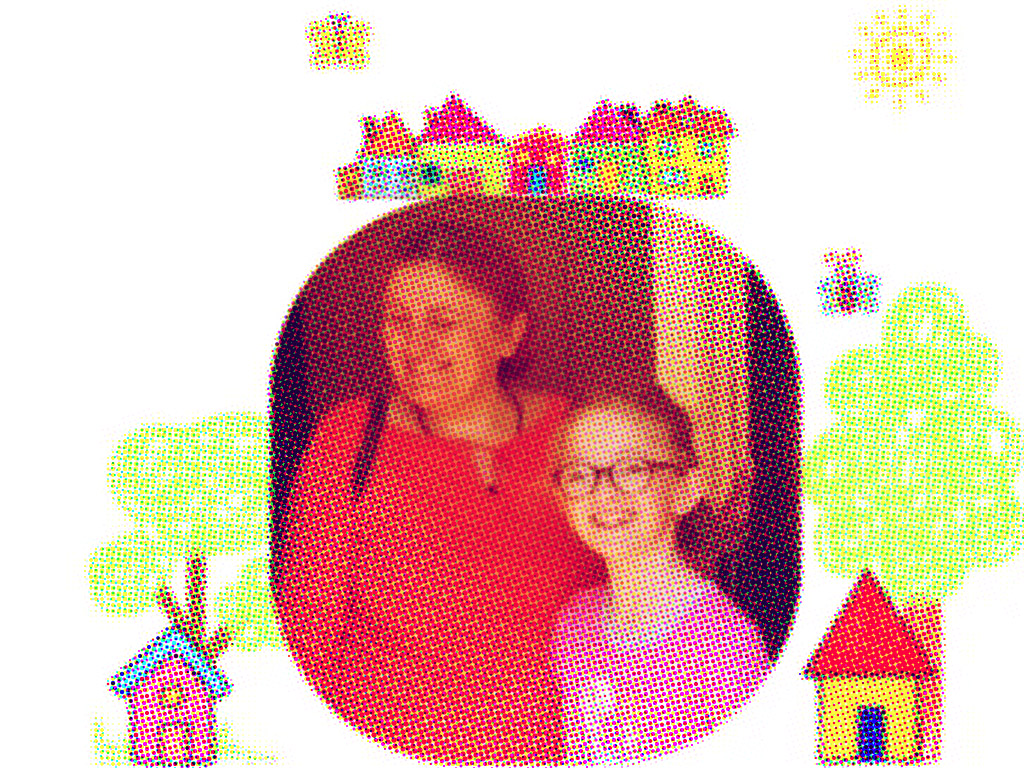
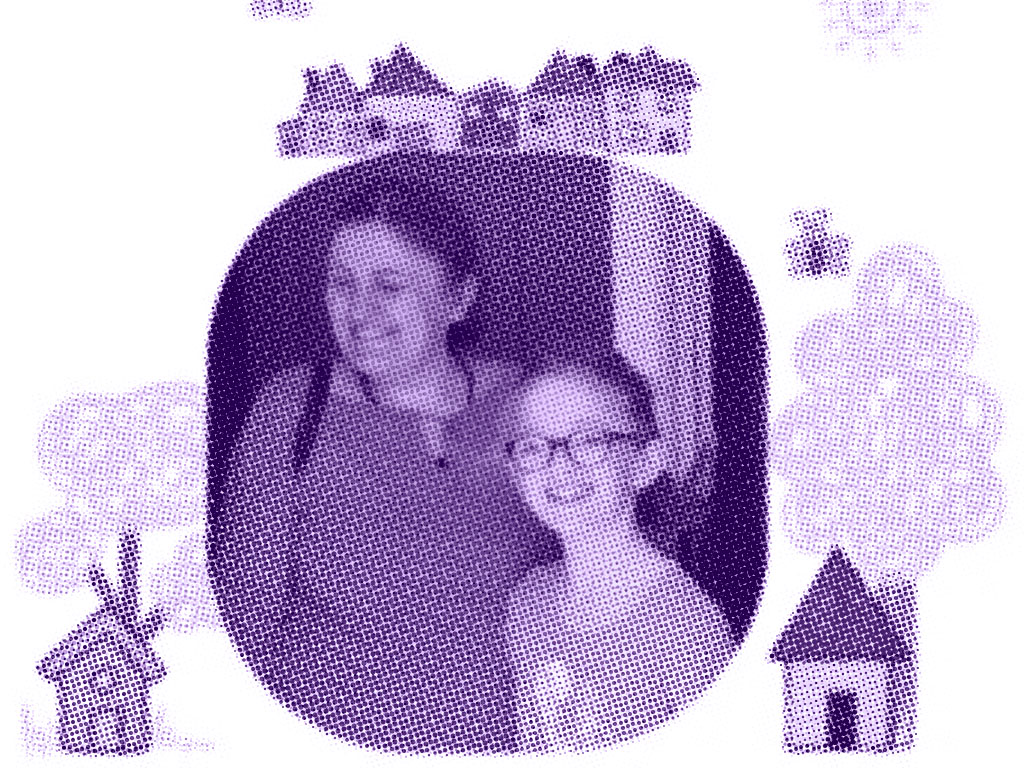
feat(site): ajouter le bandeau Solidarité avec les personnes exilées et réorganiser l'accueil
- nouvelle section SolidariteExiles (bandeau « papier découpé » + fresque),
  insérée après Plaidoyer ; ChiffresCles déplacé après le tunnel hébergeur
- nouveau bandeau TopBanner au-dessus du logo du héros
- corrige l'alignement des chiffres et la largeur des titres dans ParcoursHebergeur
- retouches diverses : crédits du footer, teintes des halos Plaidoyer/ParcoursReferent,
  décalage du fondu de bande, tirage HouseScatter, logo crème
- compresse les visuels des projets, ajoute une note sur les chiffres publics

diff --git a/src/components/site/sections/SolidariteExiles.tsx b/src/components/site/sections/SolidariteExiles.tsx
@@ -1,0 +1,51 @@
+import cutOutBanner from "@/assets/brand/cutOutBanner.svg?raw";
+import fresque from "@/assets/brand/Fresque3.jpg";
+import { solidariteExiles } from "@/components/site/content";
+
+/*
+ * Bandeau « papier découpé » plein bord : la forme lavande (`cutOutBanner.svg`)
+ * est un tracé unique auto-intersectant qui, sous la règle nonzero, rend un
+ * bandeau aux bords ondulés avec une fenêtre rectangulaire ajourée au centre
+ * (mesurée : left 21.5 %, top 20.5 %, largeur 57.75 %, hauteur 52 % de la
+ * viewBox 2000×1000). La photo de la fresque est calée sur cette fenêtre et
+ * placée SOUS le SVG (le SVG doit rester au-dessus en z pour découper l'image).
+ *
+ * Même technique que `PaperButton` : SVG importé en `?raw`, étiré au calque
+ * (`preserveAspectRatio="none"`, injecté ici car absent du fichier source) et
+ * inliné via `dangerouslySetInnerHTML` — un `<img src>` respecterait le
+ * `preserveAspectRatio` interne et ne remplirait pas le bandeau.
+ */
+const STRETCHED_BANNER = cutOutBanner.includes("preserveAspectRatio")
+  ? cutOutBanner
+  : cutOutBanner.replace("<svg", '<svg preserveAspectRatio="none"');
+
+export function SolidariteExiles() {
+  return (
+    <div className="relative aspect-[20/9] w-full overflow-hidden">
+      <img
+        src={fresque}
+        alt="Fresque peinte par les personnes accueillies par ABS"
+        className="absolute object-cover"
+        style={{ left: "21.5%", top: "20.5%", width: "58%", height: "54%" }}
+      />
+
+      <div
+        aria-hidden
+        className="pointer-events-none absolute inset-0 [&>svg]:block [&>svg]:h-full [&>svg]:w-full"
+        dangerouslySetInnerHTML={{ __html: STRETCHED_BANNER }}
+      />
+
+      <p className="absolute inset-x-0 top-8 flex h-[20%] items-center justify-center px-5 text-center font-display text-[6vw] leading-none text-creme sm:text-[5.5vw]">
+        {solidariteExiles.titre}
+      </p>
+
+      <p className="absolute inset-x-0 bottom-40 px-4 px-5 text-left ml-160 font-display text-[4vw] leading-none text-creme sm:text-[1.8vw]">
+        {solidariteExiles.sousTitreLigne1}
+      </p>
+
+      <p className="absolute inset-x-0 bottom-12 px-5 text-left ml-200 font-display text-[5.5vw] leading-none text-creme sm:text-[5.5vw]">
+        {solidariteExiles.sousTitreLigne2}
+      </p>
+    </div>
+  );
+}

diff --git a/src/components/site/sections/SiteFooter.tsx b/src/components/site/sections/SiteFooter.tsx
@@ -168,20 +168,20 @@ export function SiteFooter() {
           </div>
         </div>
 
-        <div className="mx-auto mt-10 flex w-full max-w-5xl flex-col gap-4 border-t border-creme/10 pt-6 sm:flex-row sm:items-center sm:justify-between">
-          <Logo variant="creme" className="h-10 shrink-0" />
-          <p className="text-xs text-creme/50 sm:text-left">
+        <div className="mx-auto mt-6 flex w-full max-w-5xl flex-col gap-4 border-t border-creme/10 pt-6 sm:flex-row sm:items-center sm:justify-between">
+          <Logo variant="creme" className="h-[70px] shrink-0" />
+          <p className="text-xs mt-4 text-creme/50 sm:text-left">
             ABS, Accueil Bienveillant et Solidaire · Haute-Vienne ·{" "}
             <Link to="/vie-privee" className="underline underline-offset-2 hover:text-creme/80">
-              Vie privée
+              Vie privée   
             </Link>
-            <br />
-            Police des titres Euripides:{" "}
+             {" "} — Police des titres Euripides:{" "}
             <a href="https://tanvi.network/" target="_blank" rel="noreferrer" className="underline underline-offset-2 hover:text-creme/80">
               Tanvi
             </a>{" "}
-            — Identité visuelle: Lilou Rougemont, 1ère année DN MADe
-            Graphisme, La Souterraine, supervisée par Thibault Memz — Site : Yvan Galtié
+            <br />
+            Identité visuelle: Lilou Rougemont, 1ère année DN MADe
+            Graphisme, La Souterraine. Enseignant: Thibault Memz — Site : Yvan Galtié
           </p>
         </div>
       </div>

diff --git a/src/pages/HomePage.tsx b/src/pages/HomePage.tsx
@@ -1,5 +1,6 @@
 import { Hero } from "@/components/site/sections/Hero";
 import { Plaidoyer } from "@/components/site/sections/Plaidoyer";
+import { SolidariteExiles } from "@/components/site/sections/SolidariteExiles";
 import { ChiffresCles } from "@/components/site/sections/ChiffresCles";
 import { ParcoursHebergeur } from "@/components/site/sections/ParcoursHebergeur";
 import { ParcoursReferent } from "@/components/site/sections/ParcoursReferent";
@@ -30,7 +31,7 @@ export default function HomePage() {
       }}
     >
       {/* Fil conducteur orange — couche décorative derrière le contenu. */}
-      <Fil className="absolute inset-0 z-0 h-full w-full" />
+      <Fil className="absolute inset-0 z-1 h-full w-full" />
 
       {/* Maisons « fait main » en filigrane, semées procéduralement (variantes
           maison*.svg), derrière le contenu. Placement stable via `seed`. */}
@@ -39,7 +40,7 @@ export default function HomePage() {
       <div className="relative z-10">
         <Hero hebergerTarget="heberger" referentTarget="referent" />
         <Plaidoyer />
-        <ChiffresCles />
+        <SolidariteExiles />
 
         {/* Tunnels de réassurance : « Comment ça marche ? » + passage à l'action */}
         <ParcoursHebergeur id="heberger" showTypes />
@@ -53,6 +54,8 @@ export default function HomePage() {
             </Disclosure>
           </div>
         </Section>
+
+        <ChiffresCles />
 
         <ParcoursReferent id="referent" />
         <Section className="pt-0 sm:pt-0">

diff --git a/src/components/site/sections/Hero.tsx b/src/components/site/sections/Hero.tsx
@@ -1,5 +1,6 @@
 import { HandHeart, HouseHeart } from "lucide-react";
 import { Logo } from "@/components/site/brand/Logo";
+import { TopBanner } from "@/components/site/brand/TopBanner";
 import { PaperButton } from "@/components/site/ui/PaperButton";
 import { hero } from "@/components/site/content";
 
@@ -22,7 +23,9 @@ export function Hero({
   const referentCta = { onClick: scrollTo(referentTarget) };
 
   return (
-    <section className="relative overflow-hidden bg-gradient-to-b from-peach/70 to-transparent px-5 pb-20 pt-10">
+    <section className="relative overflow-hidden bg-gradient-to-b from-peach/40 to-transparent px-5 pb-20 pt-10">
+      <TopBanner className="absolute inset-x-0 top-0 sm:h-40" />
+
       <div className="relative mx-auto w-full max-w-5xl text-center">
         <Logo variant="wordmark" className="mx-auto mb-0 h-24 sm:h-52" />
 
@@ -34,7 +37,7 @@ export function Hero({
               (même traitement que le bloc « Pourquoi nous agissons »). */}
           <div
             aria-hidden
-            className="pointer-events-none absolute -inset-x-8 -inset-y-4 rounded-[3rem] bg-background/50 blur-2xl"
+            className="pointer-events-none absolute -inset-x-8 -inset-y-4 rounded-[3rem] bg-background/40 blur-2xl"
           />
           <p className="relative text-lg text-foreground/100 sm:text-xl">
             {hero.sousTitre}

diff --git a/src/components/site/brand/TopBanner.tsx b/src/components/site/brand/TopBanner.tsx
@@ -1,0 +1,46 @@
+import type { CSSProperties } from "react";
+import { cn } from "@/lib/utils";
+import raw from "@/assets/brand/topBanner.svg?raw";
+
+/*
+ * Bandeau décoratif « fait main » (charte ABS), tout en haut du site,
+ * au-dessus du logo. Tracé unique extrait de `topBanner.svg` ; la couleur se
+ * pilote par la prop `fill` (lavande par défaut, comme dessiné à l'origine).
+ */
+const VIEW_BOX = raw.match(/viewBox="([^"]*)"/)?.[1] ?? "0 0 2000 250";
+
+function recolor(inner: string): string {
+  return inner
+    .replace(/fill:\s*rgba?\([^)]*\)/gi, "fill: currentColor")
+    .replace(/stroke:\s*rgba?\([^)]*\)/gi, "stroke: none")
+    .replace(/\bfill="(?!none)[^"]*"/gi, 'fill="currentColor"')
+    .replace(/\bstroke="(?!none)[^"]*"/gi, 'stroke="none"');
+}
+
+const INNER = recolor(
+  raw
+    .replace(/<\?xml[^>]*\?>/, "")
+    .replace(/<svg[^>]*>/, "")
+    .replace(/<\/svg>/, ""),
+);
+
+export function TopBanner({
+  className,
+  fill = "var(--lavande)",
+  style,
+}: {
+  className?: string;
+  fill?: string;
+  style?: CSSProperties;
+}) {
+  return (
+    <svg
+      viewBox={VIEW_BOX}
+      preserveAspectRatio="none"
+      className={cn("block w-full", className)}
+      style={{ color: fill, ...style }}
+      aria-hidden="true"
+      dangerouslySetInnerHTML={{ __html: INNER }}
+    />
+  );
+}

diff --git a/src/components/site/sections/ParcoursHebergeur.tsx b/src/components/site/sections/ParcoursHebergeur.tsx
@@ -31,17 +31,17 @@ export function ParcoursHebergeur({
         {parcoursHebergeur.etapes.map((e, i) => (
           <li
             key={e.numero}
-            className="relative flex min-h-56 flex-col justify-center overflow-hidden rounded-2xl border border-border bg-card p-5"
+            className="relative flex min-h-56 flex-col justify-start overflow-hidden rounded-2xl border border-border bg-card p-5"
           >
             <div className="relative">
               <NumberMark
                 variant={i}
                 fill="var(--orange)"
-                className="pointer-events-none absolute -top-5 -left-4 h-20 w-20"
+                className="pointer-events-none absolute -top-4 -left-4 h-20 w-20"
               />
-              <h3 className="mx-14 mt-1 text-xl text-aubergine">{e.titre}</h3>
+              <h3 className="ml-12 text-center mt-1 text-xl text-aubergine">{e.titre}</h3>
             </div>
-            <p className="mt-4 mx-auto text-foreground/100">{e.texte}</p>
+            <p className="mt-4 mx-auto text-justify text-foreground/100">{e.texte}</p>
           </li>
         ))}
       </ol>

diff --git a/src/components/site/content.ts b/src/components/site/content.ts
@@ -28,6 +28,12 @@ export const plaidoyer = {
   ],
 };
 
+export const solidariteExiles = {
+  titre: "Solidarité",
+  sousTitreLigne1: "avec les personnes",
+  sousTitreLigne2: "exilées!",
+};
+
 /*
  * Chiffres clés. `valeur` est le placeholder affiché par défaut (et le repli si
  * l'API publique est injoignable) ; `key` pointe vers le champ correspondant du
@@ -37,7 +43,7 @@ export const plaidoyer = {
 export const chiffres: { valeur: string; label: string; key?: string }[] = [
   { valeur: "120+", label: "personnes accueillies", key: "total.personnesAccueillies.total" },
   { valeur: "45", label: "familles hébergeuses engagées", key: "total.famillesHebergeuses" },
-  { valeur: "80", label: "bénévoles & adhérent·es", key: "benevoles" },
+  { valeur: "80", label: "bénévoles et référent.e.s", key: "benevoles" },
 ];
 
 export type Etape = { numero: string; titre: string; texte: string };

diff --git a/src/components/site/sections/ParcoursReferent.tsx b/src/components/site/sections/ParcoursReferent.tsx
@@ -16,9 +16,9 @@ export function ParcoursReferent({
         {/* Halo crème flou : atténue le fil conducteur derrière l'intro. */}
         <div
           aria-hidden
-          className="pointer-events-none absolute -inset-x-6 -inset-y-3 rounded-[2.5rem] bg-background/70 blur-2xl"
+          className="pointer-events-none absolute -inset-x-6 -inset-y-3 rounded-[2.5rem] bg-background/40 blur-2xl"
         />
-        <p className="relative text-lg text-foreground/80">{parcoursReferent.intro}</p>
+        <p className="relative mx-auto text-lg text-foreground/100">{parcoursReferent.intro}</p>
       </div>
 
       <ul className="mt-8 space-y-4">

diff --git a/src/components/site/ui/Section.tsx b/src/components/site/ui/Section.tsx
@@ -4,7 +4,7 @@ import { cn } from "@/lib/utils";
    nettes, se fond dans le dégradé de fond. Utilisée via la prop `band`. */
 const BAND_STYLE: React.CSSProperties = {
   backgroundImage:
-    "linear-gradient(to bottom, transparent 0, rgb(253 231 223 / 0.4) 30px, rgb(253 231 223 / 0.4) calc(100% - 30px), transparent 100%)",
+    "linear-gradient(to bottom, transparent 0, rgb(253 231 223 / 0.4) 80px, rgb(253 231 223 / 0.4) calc(100% - 30px), transparent 100%)",
 };
 
 /* Conteneur de section : largeur max + rythme vertical homogènes. */

diff --git a/src/components/site/sections/Plaidoyer.tsx b/src/components/site/sections/Plaidoyer.tsx
@@ -10,7 +10,7 @@ export function Plaidoyer() {
             l'intensité via l'opacité (/80) et l'ampleur du fondu via le flou. */}
         <div
           aria-hidden
-          className="pointer-events-none absolute -inset-x-8 -inset-y-6 rounded-[3rem] bg-background/40 blur-2xl"
+          className="pointer-events-none absolute -inset-x-8 -inset-y-6 rounded-[3rem] bg-background/30 blur-2xl"
         />
         <div className="relative">
           <h2 className="text-3xl text-aubergine sm:text-4xl">{plaidoyer.titre}</h2>

diff --git a/src/components/site/brand/Logo.tsx b/src/components/site/brand/Logo.tsx
@@ -2,7 +2,7 @@ import { cn } from "@/lib/utils";
 import { association } from "@/components/site/content";
 import logoOrange from "@/assets/brand/logo-abs-orange-baseline-wide.svg";
 import logoWordmark from "@/assets/brand/logo-abs-no-baseline.svg";
-import logoCreme from "@/assets/brand/logo-abs-mono-creme.svg";
+import logoCreme from "@/assets/brand/logo_creme_baseline_wide.svg";
 
 /*
  * Logotype officiel ABS (charte).

diff --git a/src/components/site/brand/HouseScatter.tsx b/src/components/site/brand/HouseScatter.tsx
@@ -72,7 +72,7 @@ export function HouseScatter({
   opacity = 0.25,
   opacityJitter = 0.08,
   colors = ["lavande", "orange", "aubergine"],
-  seed = 38,
+  seed = 78,
   variants,
   className,
 }: {
